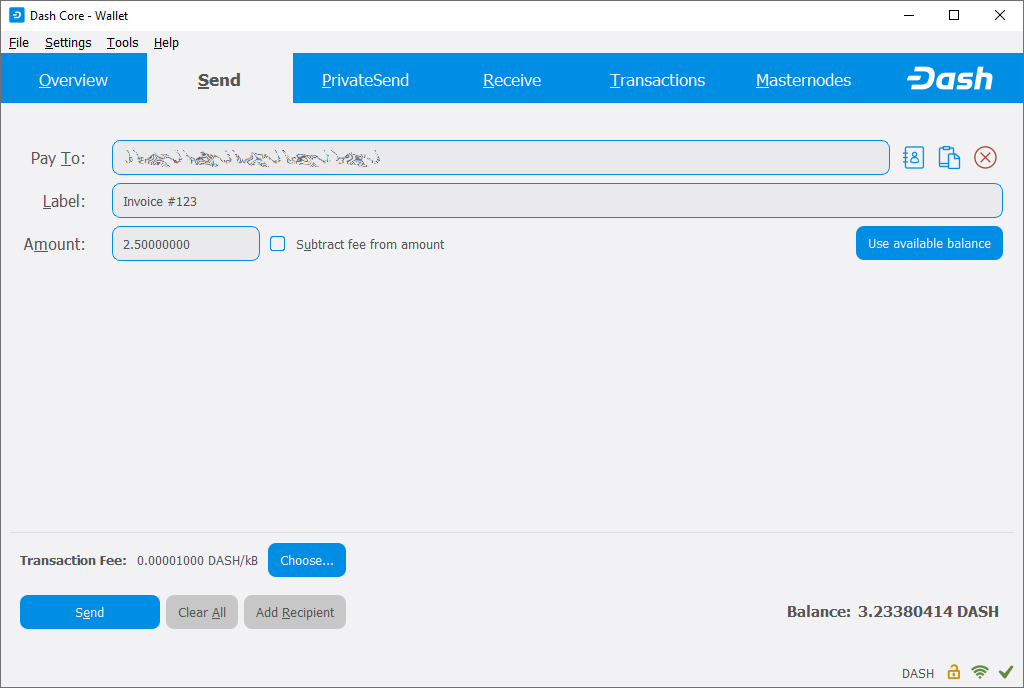
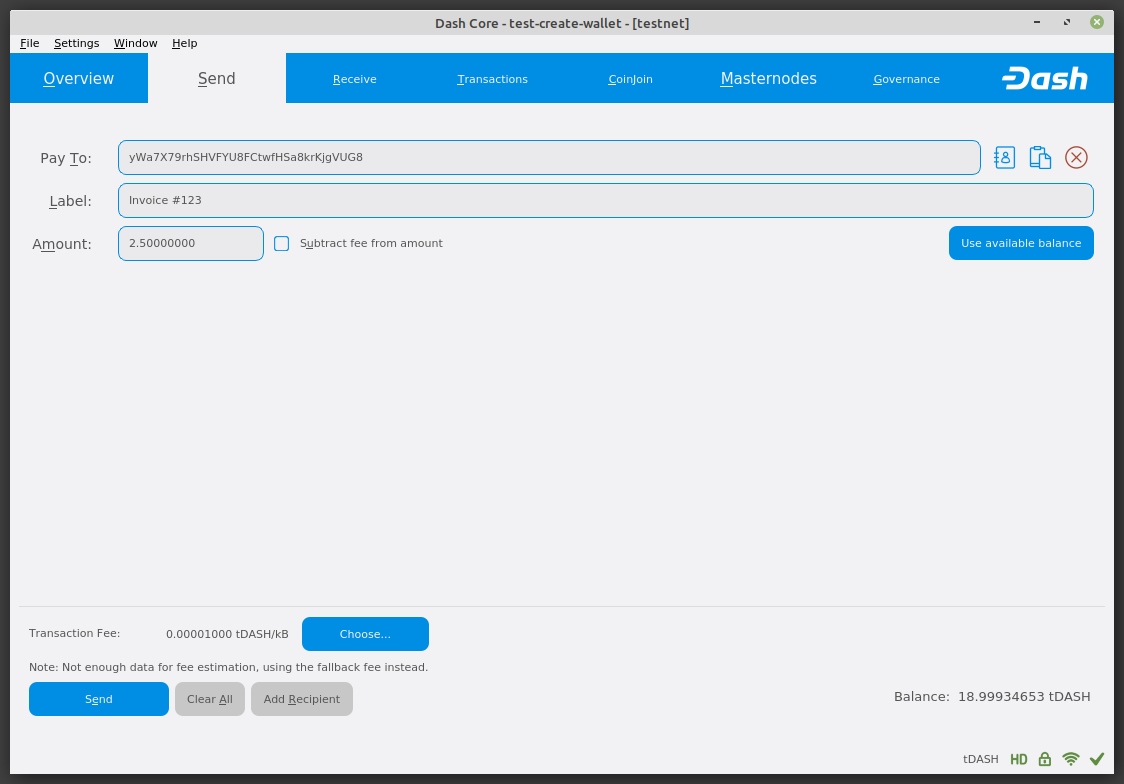
chore: update sending image

Changed region(s): [[0.0, 0.0, 1.0, 1.0]]

diff --git a/wallets/dashcore/send-receive.rst b/wallets/dashcore/send-receive.rst
@@ -56,8 +56,8 @@ fee to encourage nodes on the network to prioritize your transaction.
 
 Let’s try an example. Say you have received an invoice which you now
 want to pay with Dash. The writer of the invoice has included a Dash
-address, which can be seen in the following window beginning with *Xpa*.
-The invoice is for 2.45 Dash, which you fill in the **Amount** field.
+address, which can be seen in the following window beginning with *yWa*.
+The invoice is for 2.5 Dash, which you fill in the **Amount** field.
 
 .. figure:: img/sendready.png
    :width: 400px
